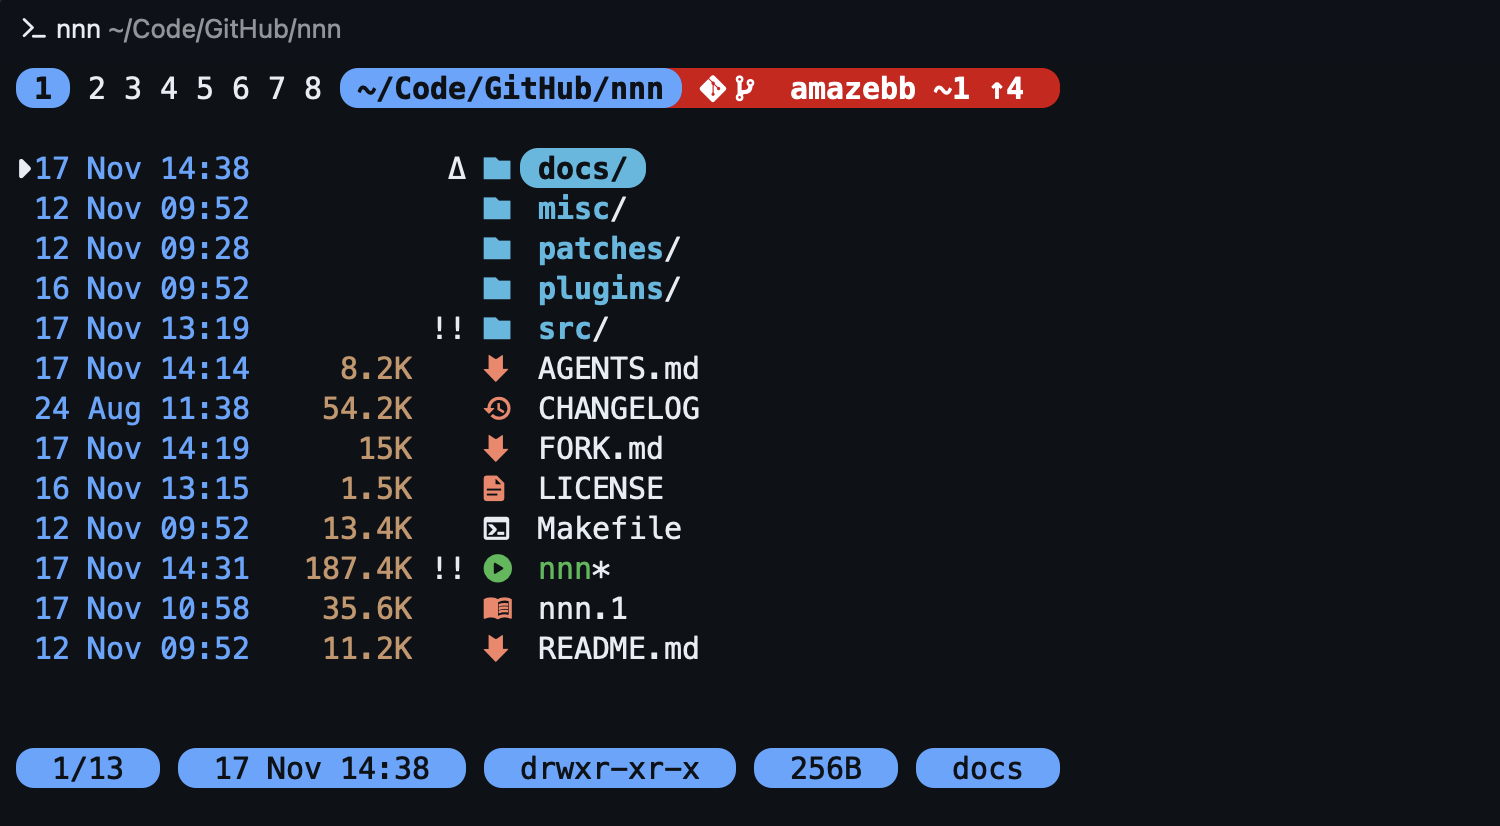
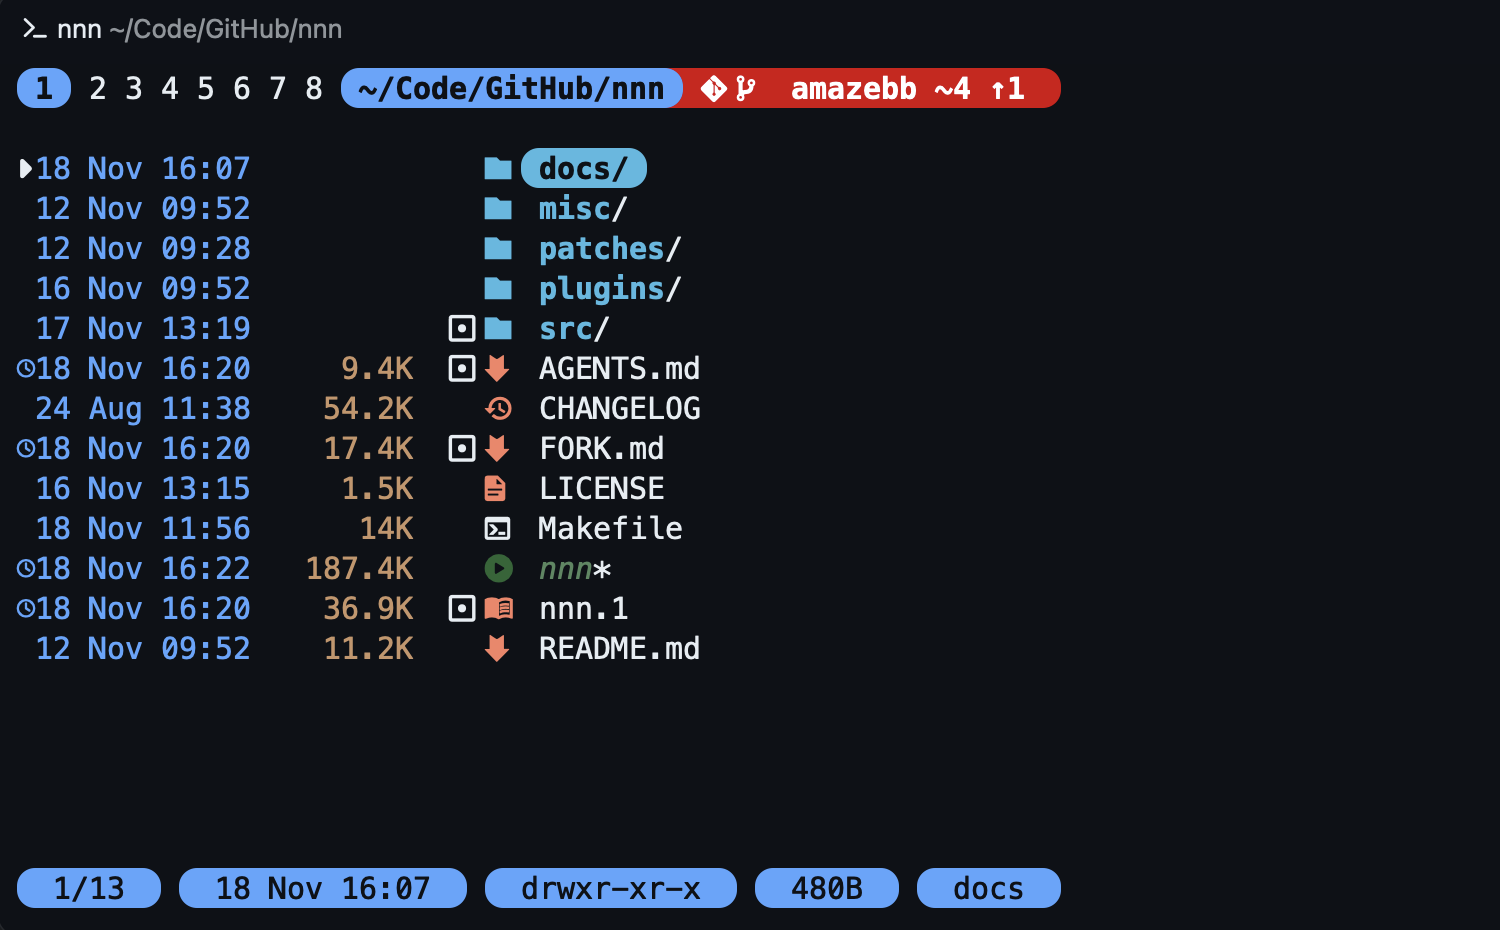
docs(web): refresh the nnn listing screenshots
- capture the light and dark listings with the new git icons and dimmed ignored files
- size the images to the taller crop

Changed region(s): [[0.0, 0.0, 0.7053, 0.8172], [0.0, 0.908, 0.7053, 0.9988]]

diff --git a/docs/index.template.html b/docs/index.template.html
@@ -26,8 +26,8 @@
       <button type="button" data-theme="light" aria-pressed="false">Light</button>
     </div>
     -->
-    <img class="th-light" src="img/nnn-list-light.png" width="750" height="413" alt="nnn listing the repo root in a light terminal theme, with the context and path pills on top and the pill status bar below">
-    <img class="th-dark" src="img/nnn-list-dark.png" width="750" height="413" alt="nnn listing the repo root in a dark terminal theme, with the context and path pills on top and the pill status bar below">
+    <img class="th-light" src="img/nnn-list-light.png" width="750" height="465" alt="nnn listing the repo root in a light terminal theme, with the context and path pills on top and the pill status bar below">
+    <img class="th-dark" src="img/nnn-list-dark.png" width="750" height="465" alt="nnn listing the repo root in a dark terminal theme, with the context and path pills on top and the pill status bar below">
     <figcaption>A <a href="https://www.nerdfonts.com/">Nerd Font</a> is required to show the pills and icons.</figcaption>
   </figure>
 
